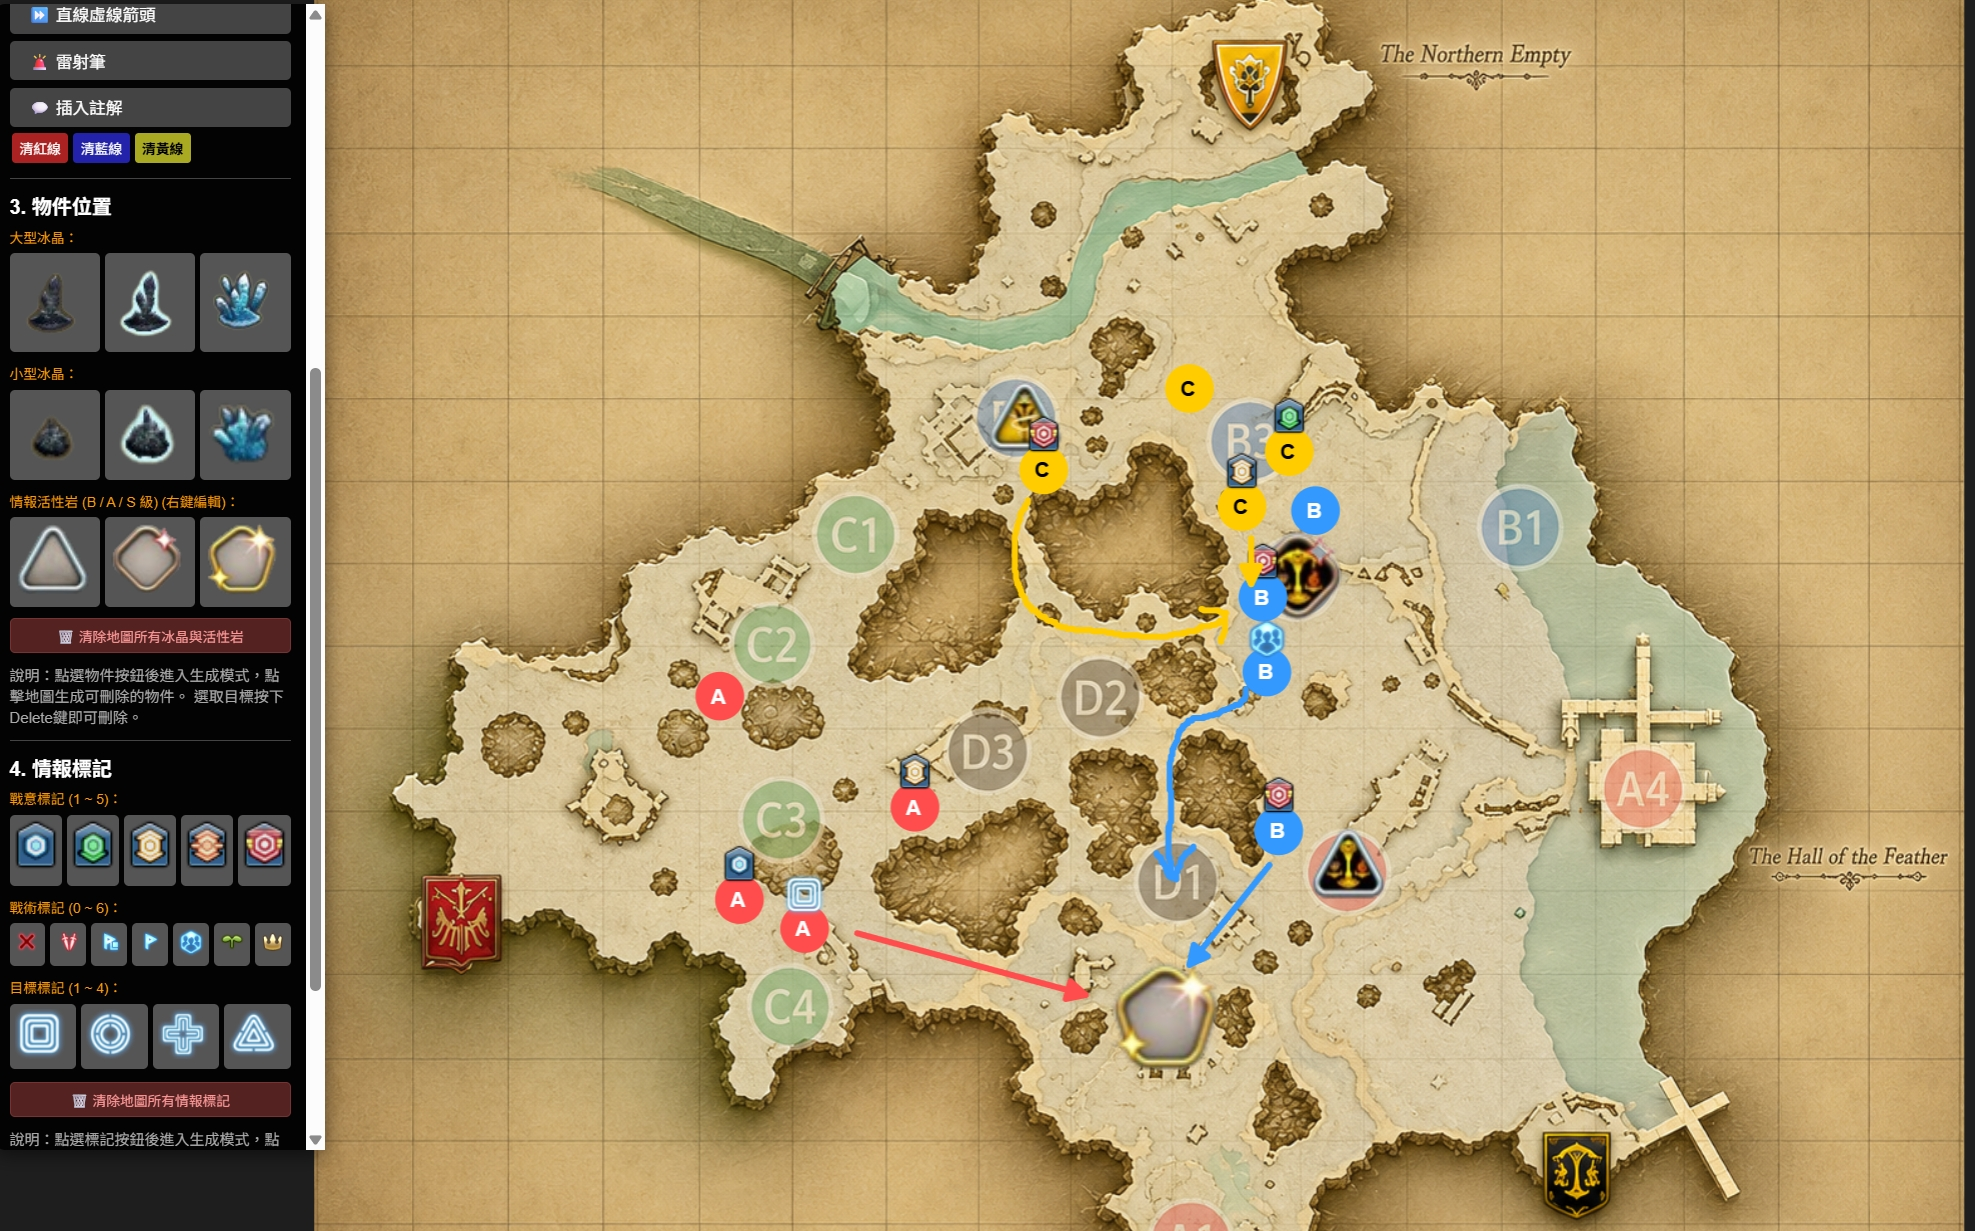
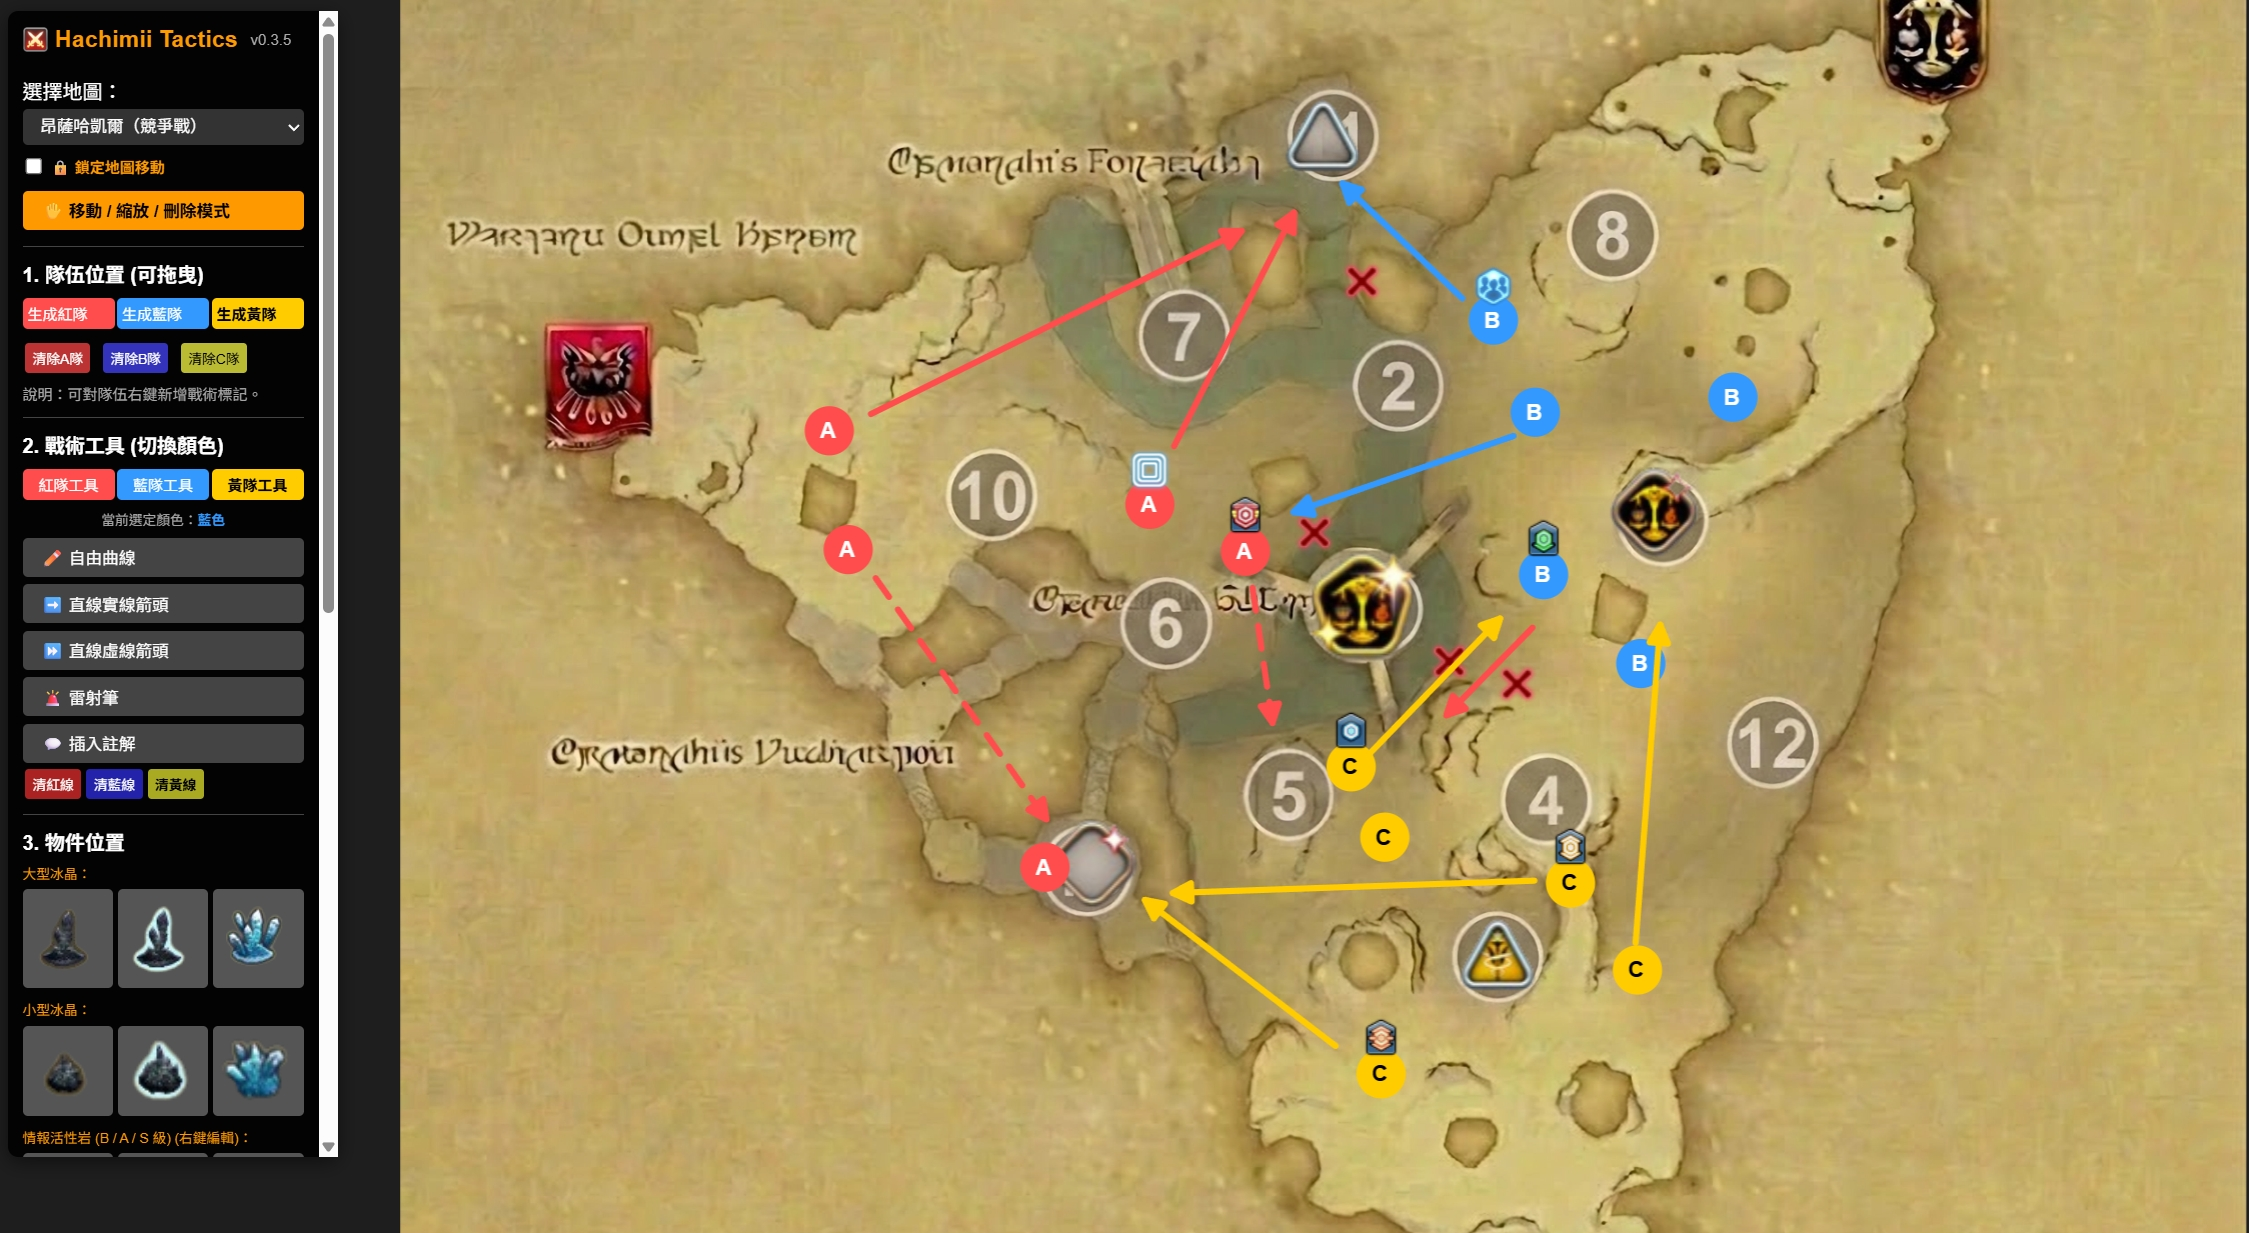
v0.3.6
Update homepage pic
Add json sharing

diff --git a/app.js b/app.js
@@ -1,6 +1,6 @@
 // ========================================================
 // Hachimii - FF14 Front Line Tactics
-// Version: v0.3.5 (Tactics Code Base64 LZW Compression Edition)
+// Version: v0.3.6 (Tactics Code Base64 LZW Compression Edition)
 // Engine: Konva.js (Multi-Layer Architecture)
 // ========================================================
 

diff --git a/index.html b/index.html
@@ -147,7 +147,7 @@
         <h3 style="margin-top:0; color:#ff9900; display:flex; align-items:center; gap:6px;">
             <img src="favicon.png" style="width:20px; height:20px; object-fit:contain; border-radius:3px;">
             Hachimii Tactics 
-            <span style="font-size:12px; color:#aaa; font-weight:normal; margin-left:4px;">v0.3.5</span>
+            <span style="font-size:12px; color:#aaa; font-weight:normal; margin-left:4px;">v0.3.6</span>
         </h3>
         
         <label>選擇地圖：</label>